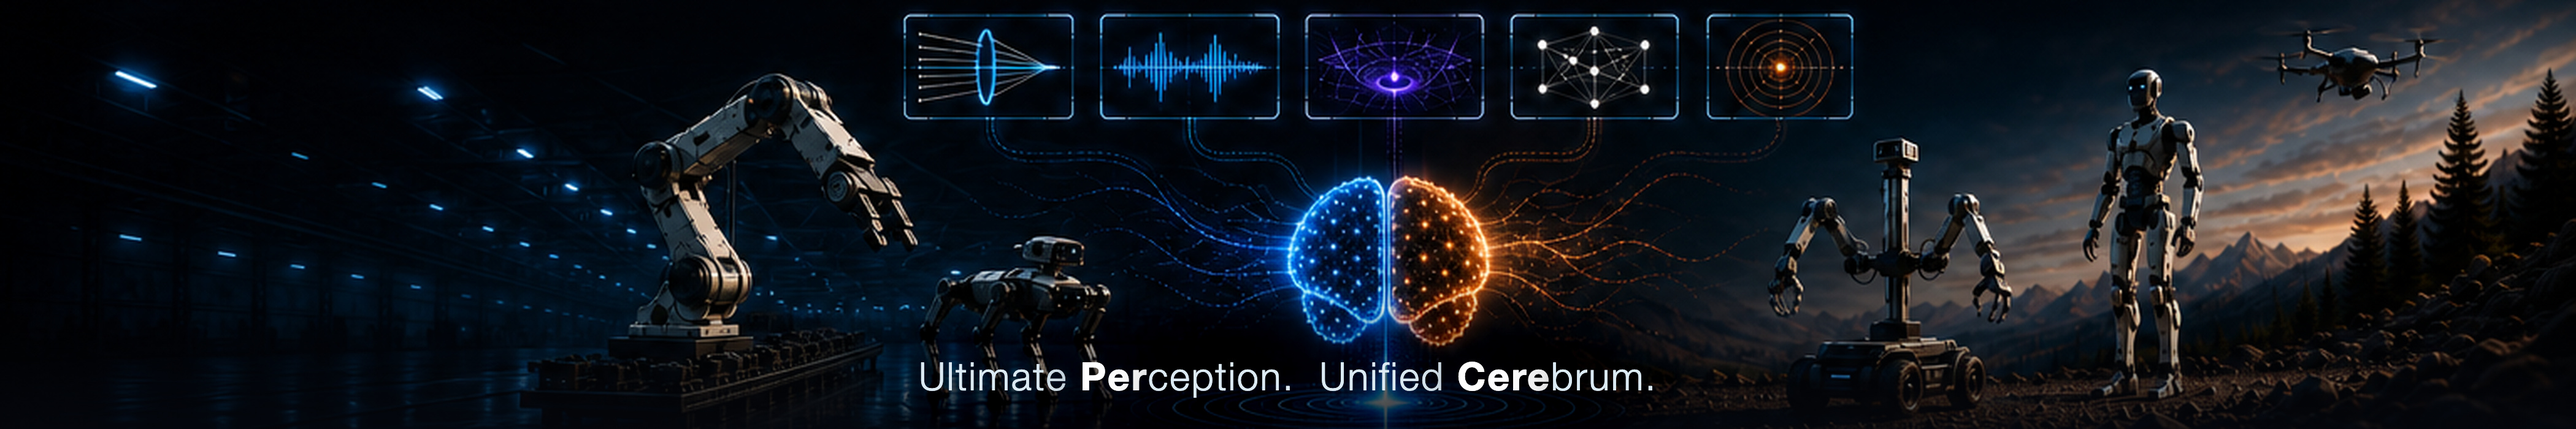
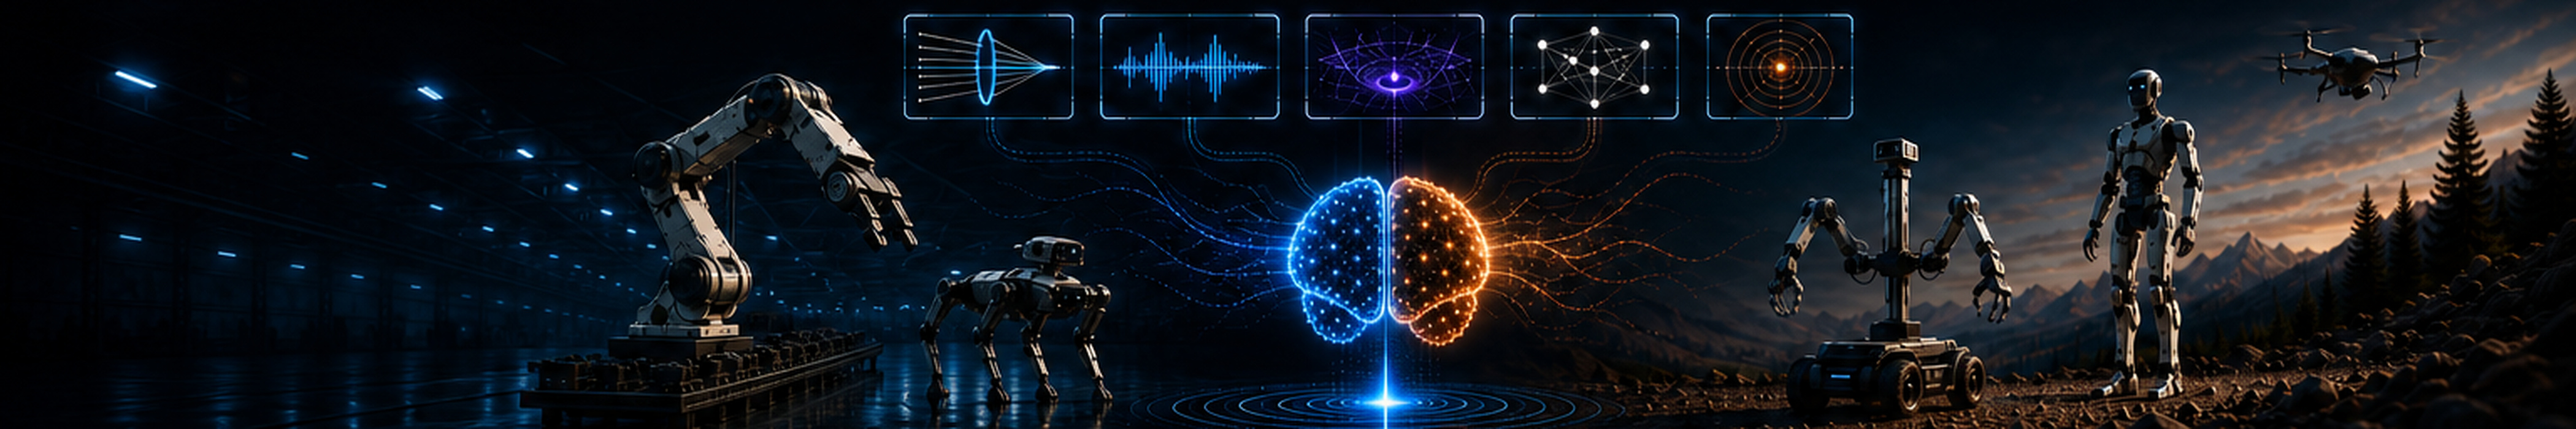
Drop the strapline from the LinkedIn cover.
The scene reads cleaner without “Ultimate Perception. Unified Cerebrum.”
once LinkedIn’s own logo tile sits on the left.

diff --git a/brand/banner.html b/brand/banner.html
@@ -25,7 +25,6 @@
         height: 188px;
         overflow: hidden;
         background: #04070d;
-        font-family: "Helvetica Neue", "SF Pro Display", -apple-system, Arial, sans-serif;
       }
 
       .scene {
@@ -36,46 +35,11 @@
         object-fit: cover;
         object-position: 50% 50%;
       }
-
-      .scrim-bottom {
-        position: absolute;
-        inset: 0;
-        background: linear-gradient(
-          0deg,
-          rgba(4, 7, 13, 0.8) 0%,
-          rgba(4, 7, 13, 0.3) 16%,
-          rgba(4, 7, 13, 0) 34%
-        );
-      }
-
-      .strapline {
-        position: absolute;
-        left: 0;
-        right: 0;
-        bottom: 13px;
-        text-align: center;
-        font-size: 17px;
-        font-weight: 300;
-        letter-spacing: 0.04em;
-        color: #dceaf4;
-        white-space: nowrap;
-        text-shadow: 0 2px 16px rgba(4, 7, 13, 1), 0 0 30px rgba(4, 7, 13, 0.95);
-      }
-
-      .strapline b {
-        font-weight: 700;
-        color: #ffffff;
-      }
     </style>
   </head>
   <body>
     <div class="banner">
       <img class="scene" src="banner-strip.png" alt="" />
-      <div class="scrim-bottom"></div>
-
-      <div class="strapline">
-        Ultimate <b>Per</b>ception. &nbsp;Unified <b>Cere</b>brum.
-      </div>
     </div>
   </body>
 </html>
